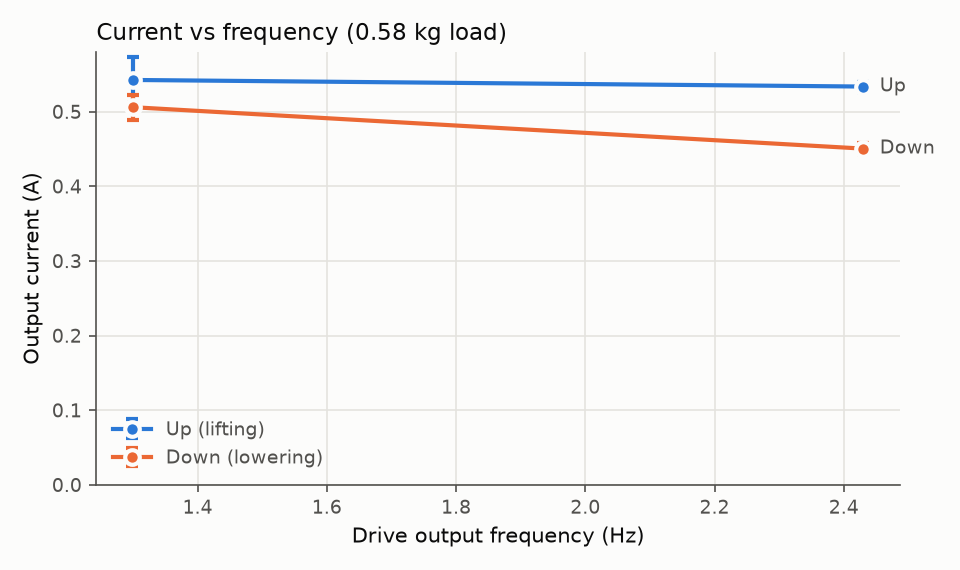
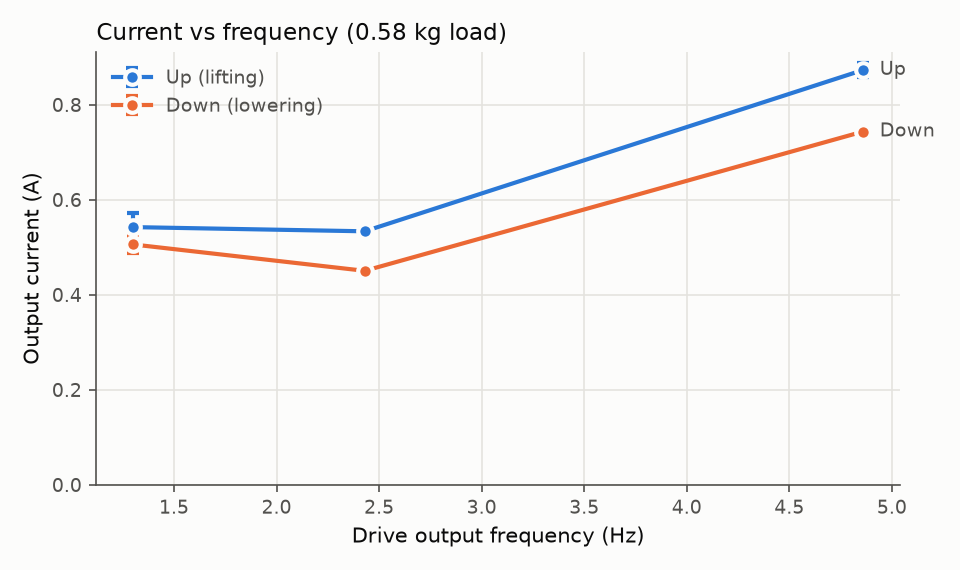
Log the 0.58 kg pliers test at 4.85 Hz
Current splits cleanly into two tight clusters 0.1 A apart here, the
most confident direction assignment of the three pliers sessions.
Up and down slip both line up consistently across all three load
levels tested at this frequency (no-load, 0.58 kg, 1.46 kg).

Claude-Session: https://claude.ai/code/session_01KDBgZS5sBDtdZcqbVDmcN3

diff --git a/docs/results-log.md b/docs/results-log.md
@@ -148,3 +148,27 @@ the 6.36 Hz loaded-box result, not negative this time but still far below up sli
 slip (23.1%–31.4%) again falls between the no-load baseline at 2.44 Hz (18%) and the
 1.46 kg box at 2.44 Hz (30.8%–32.2%) — exactly where 0.58 kg belongs, confirming the
 current-pattern-based direction split.
+
+## 2026-10-07: pliers (0.58 kg), 4.85 Hz
+
+Up read as **136 RPM**; down read as **144 RPM** (session
+`2026-10-07_Pliers_baseweight-0.58kg_testedfreq-4.85hz`). Seven runs held long enough to
+trust, and this time current splits them cleanly into two tight clusters with a 0.1 A
+gap between them — no ambiguity:
+
+| Run | Dir | Run time (s) | Current (A) | Sync RPM | RPM read | Slip |
+|---|---|---|---|---|---|---|
+| 1 | up | 8.3 | 0.886 | 145.7 | 136 | 0.0659–0.0666 |
+| 3 | up | 9.7 | 0.853 | 145.7 | 136 | 0.0659–0.0666 |
+| 12 | up | 9.3 | 0.872 | 145.6 | 136 | 0.0659–0.0666 |
+| 16 | up | 8.2 | 0.882 | 145.6 | 136 | 0.0659–0.0666 |
+| 2 | down | 8.1 | 0.745 | 145.7 | 144 | 0.0110–0.0117 |
+| 4 | down | 5.6 | 0.738 | 145.6 | 144 | 0.0110–0.0117 |
+| 14 | down | 6.2 | 0.748 | 145.7 | 144 | 0.0110–0.0117 |
+
+**Consistency check**: up slip (6.6%) sits between the no-load baseline at 4.85 Hz
+(5.4%) and the 1.46 kg box at 4.85 Hz (10.0%–10.7%), exactly where 0.58 kg belongs. Down
+slip also lines up across all three load levels at this frequency, decreasing
+monotonically as load increases — no-load 3.0% → 0.58 kg pliers 1.1%–1.2% → 1.46 kg box
+≈0% — consistent with heavier loads overhauling the motor more completely on the way
+down.
